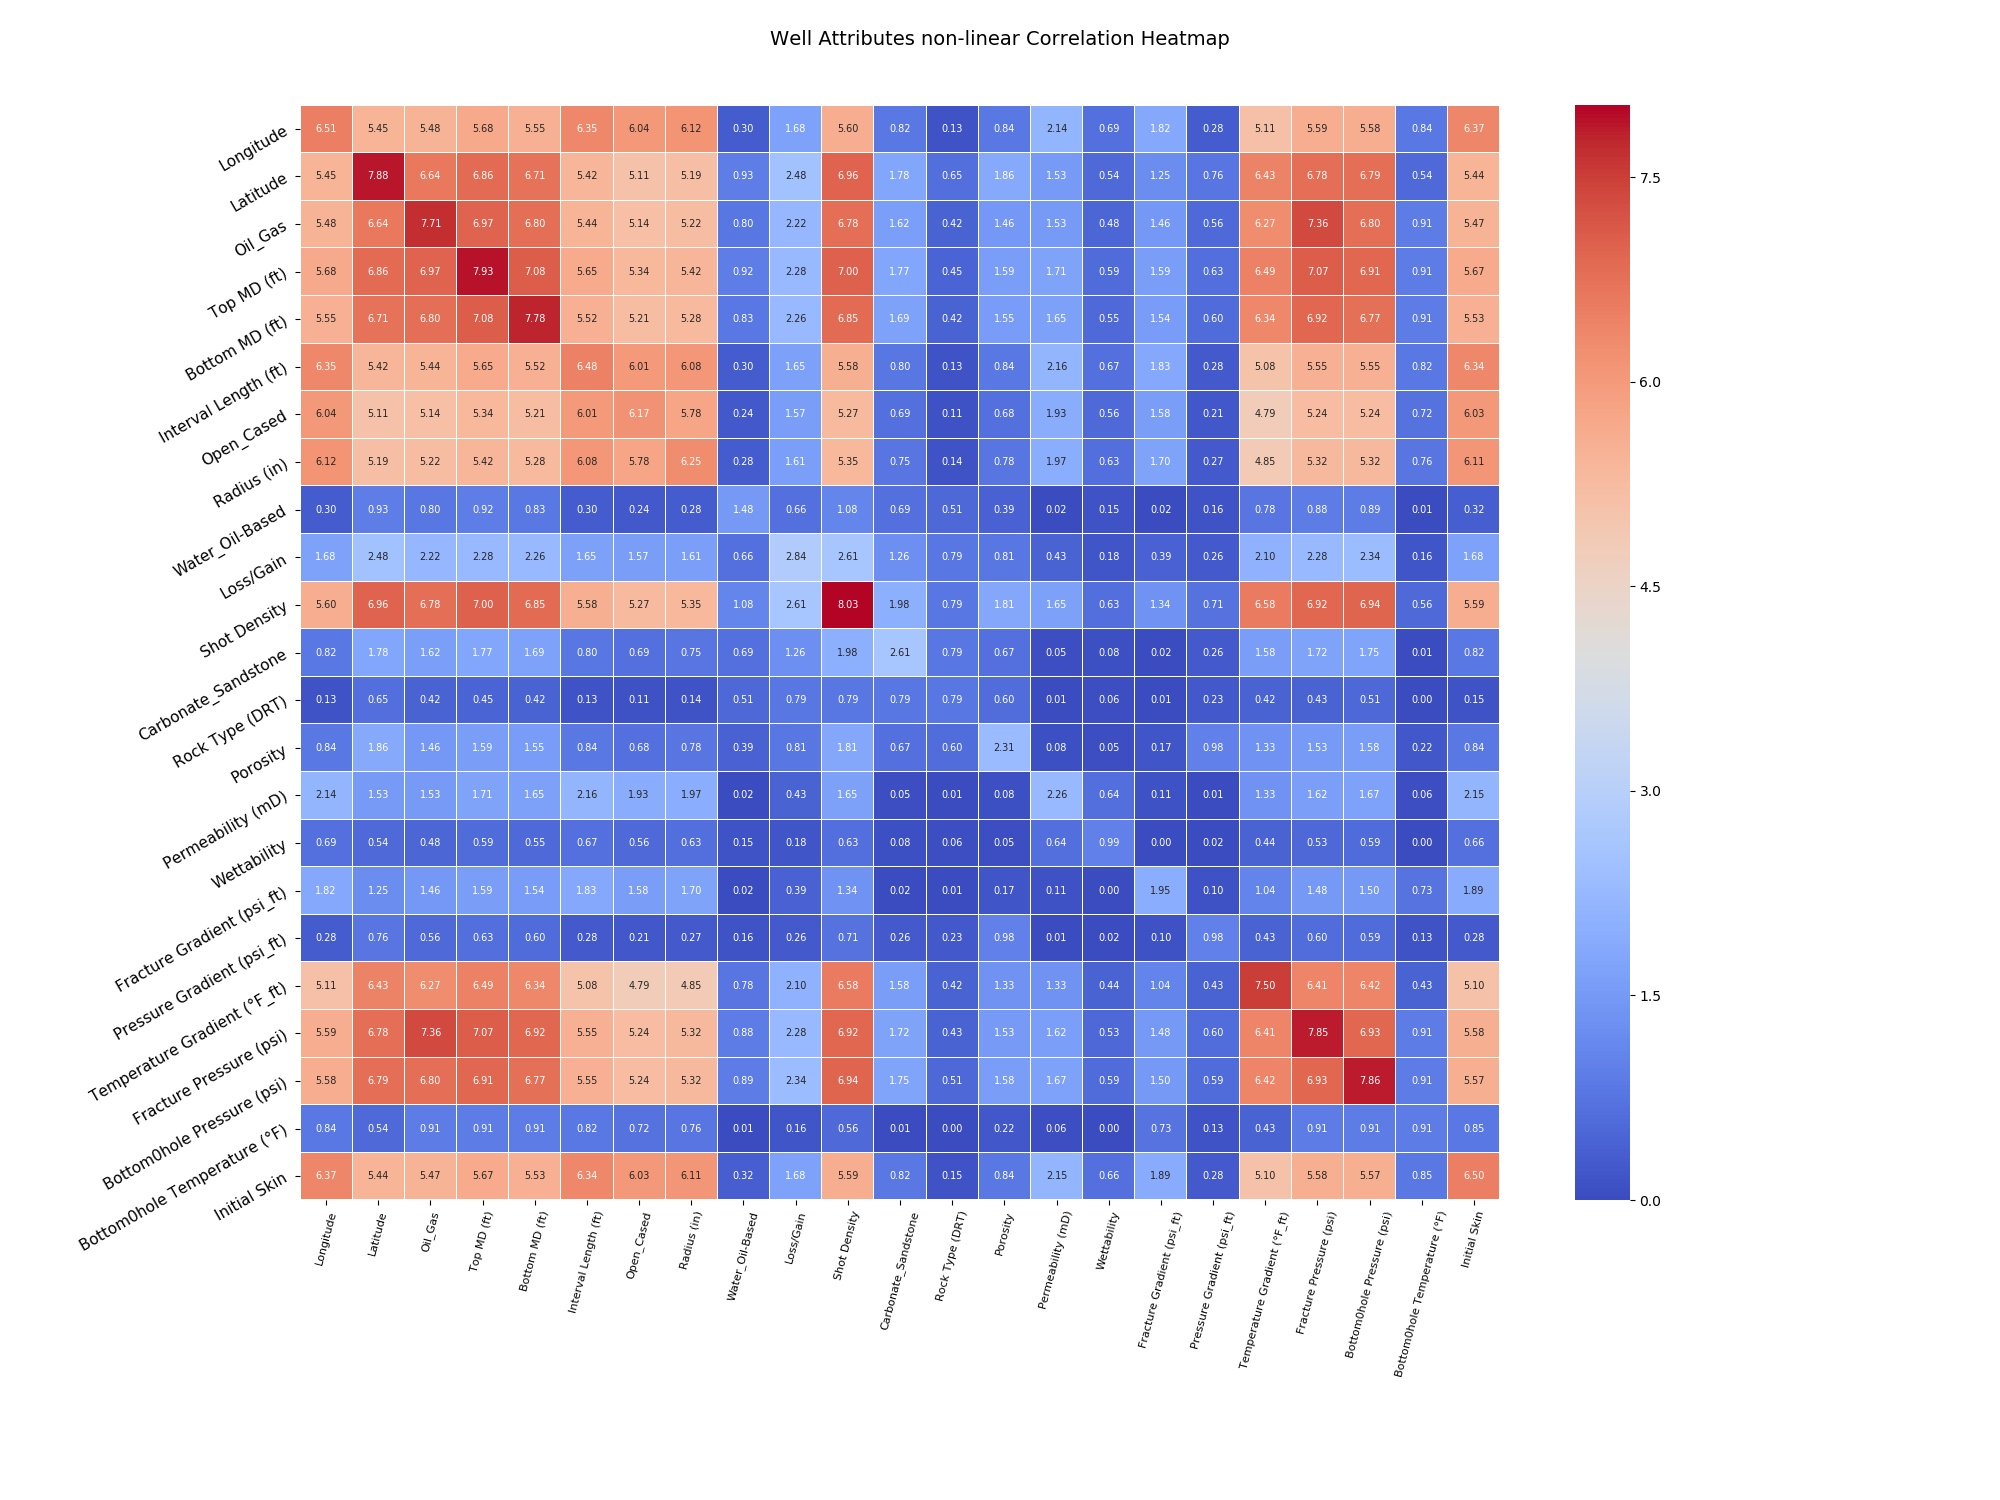
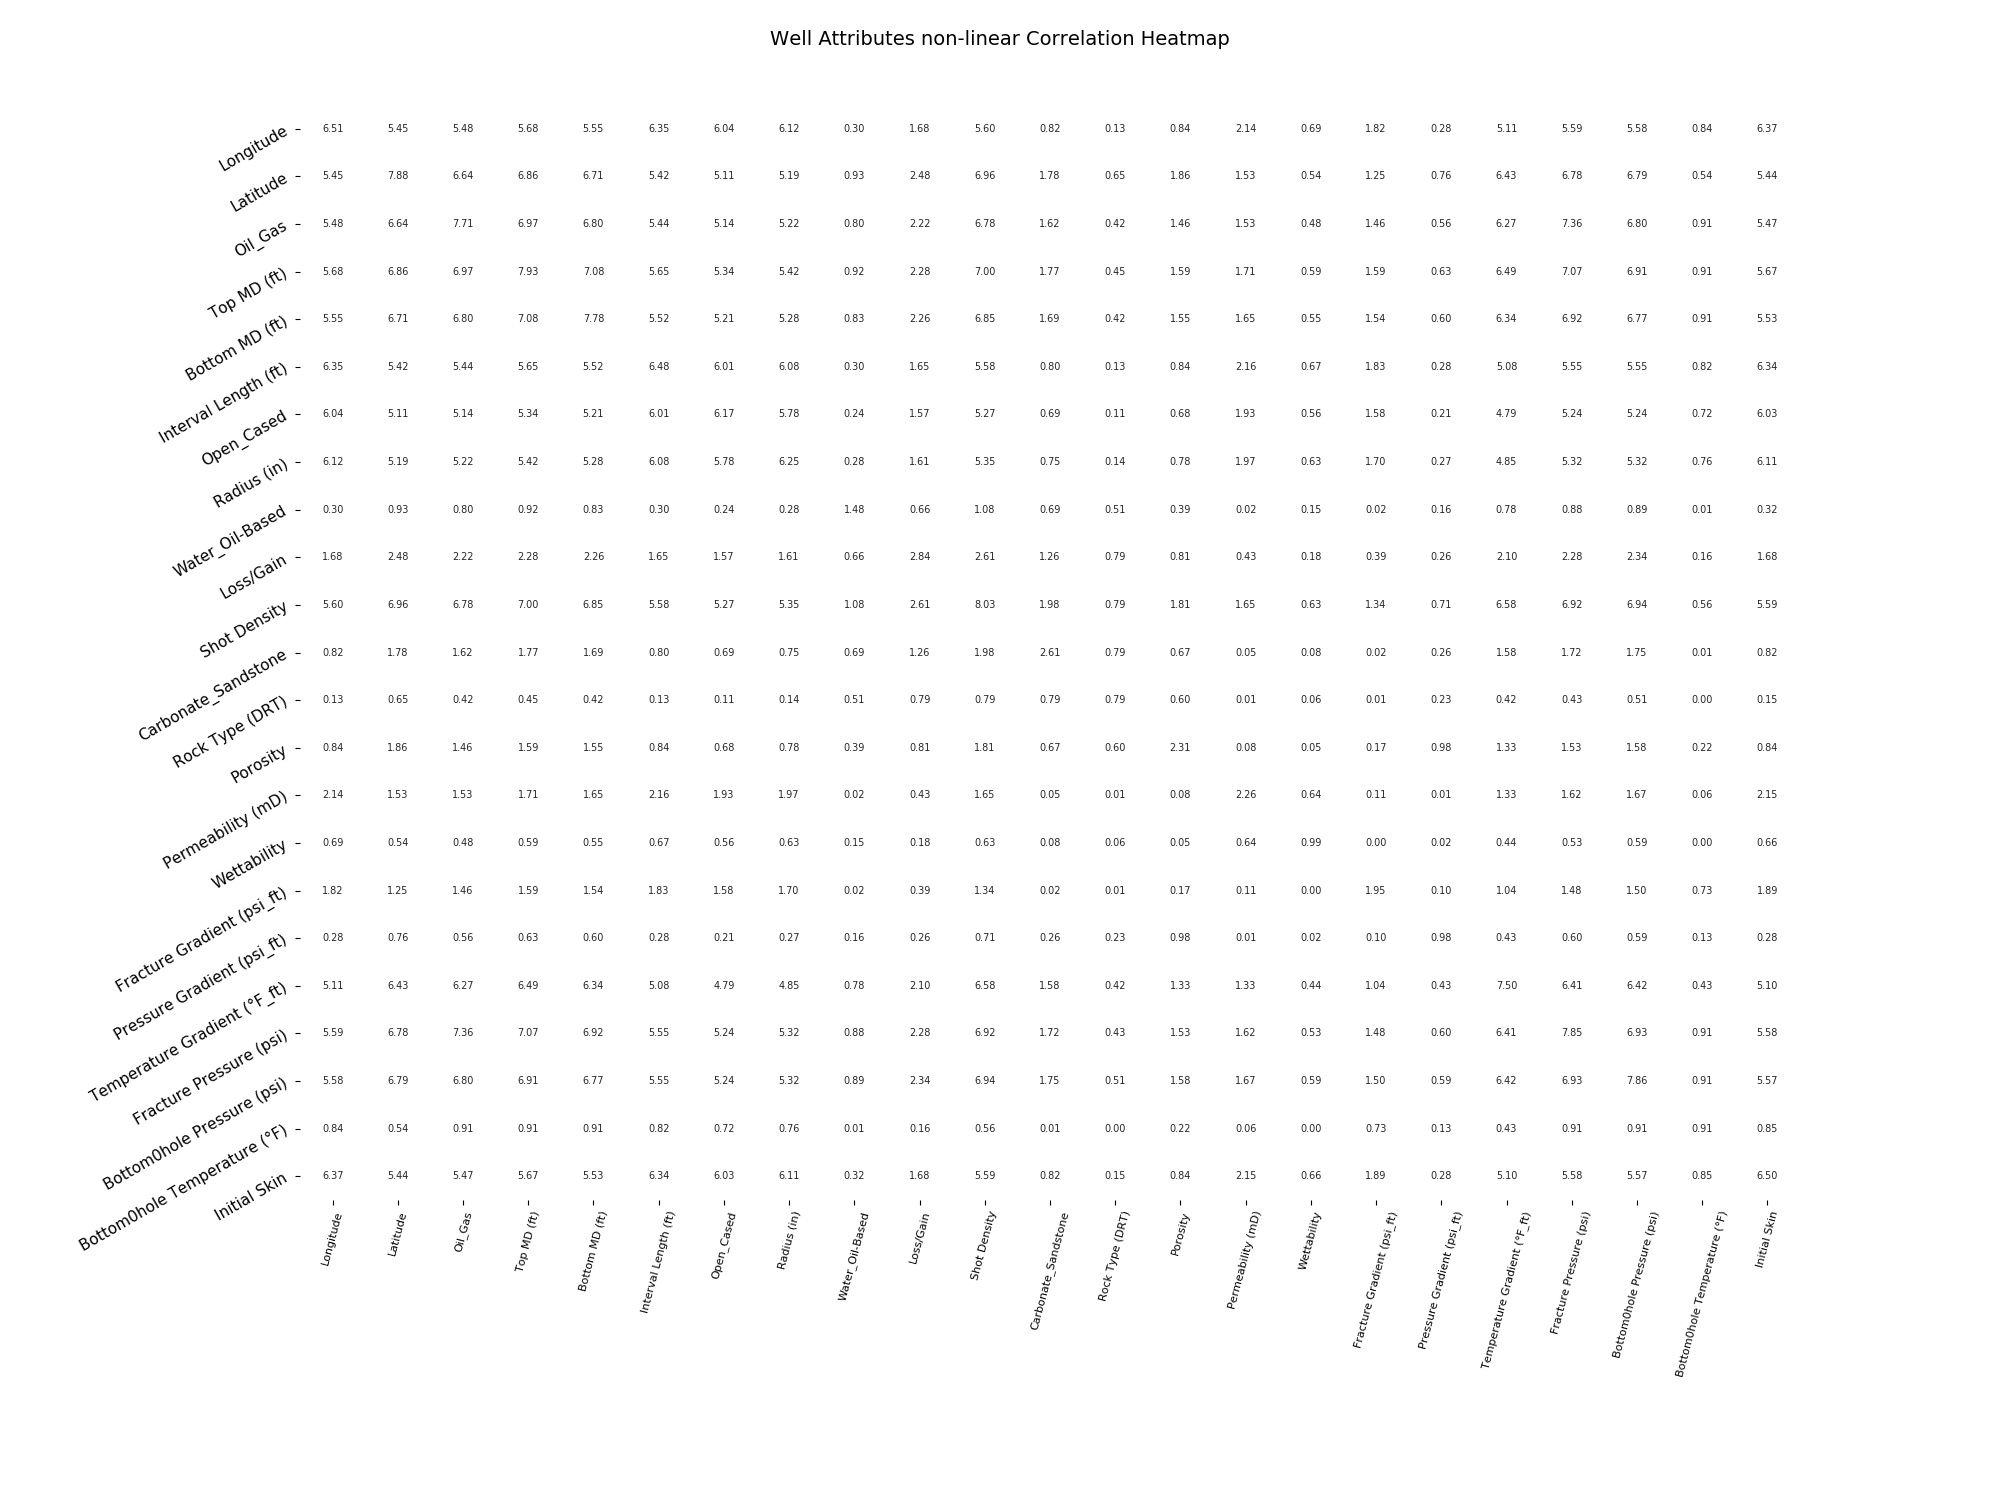
0

diff --git a/python/mutually information.py b/python/mutually information.py
@@ -1,9 +1,18 @@
+from matplotlib.colors import ListedColormap
 import numpy as np
 import pandas as pd
 import matplotlib.pyplot as plt
 import seaborn as sns
 import os
 
+
+def normalizeValues(df):
+    from sklearn import preprocessing
+    min_max_scaler = preprocessing.MinMaxScaler()
+    x_scaled = min_max_scaler.fit_transform(df)
+    return x_scaled
+
+   
 def calc_MI(X,Y,bins):
    c_XY = np.histogram2d(X,Y,bins)[0]
    c_X = np.histogram(X,bins)[0]
@@ -42,18 +51,35 @@ def main():
             "Correlation" : round(mutual_matrix[i, j],2)
                     }, ignore_index = True)
    corr_df.to_excel("second_dataset_non_linear_correlation_ranking.xlsx")
+
+
+   normalizedMutualMatrix = np.zeros([df.shape[1],df.shape[1]])
+   for i in range(mutual_matrix.shape[0]):
+      normalizedMutualMatrix[i] = [i[0] for i in normalizeValues(mutual_matrix[i].reshape(-1, 1))]
+
    pl, ax = plt.subplots(figsize=(20, 15))
-   hm = sns.heatmap(mutual_matrix, annot=True, ax=ax, cmap="coolwarm",fmt='.2f',
-                     linewidths=.05, annot_kws={"size": 7})
+   hm = sns.heatmap(mutual_matrix, annot=True, ax=ax, cmap=ListedColormap(['white']),fmt='.2f',
+                     linewidths=.05, annot_kws={"size": 7}, cbar = False)
    hm.set_xticklabels(df.columns, rotation = 75, fontsize = 8)
    hm.set_yticklabels(df.columns, rotation = 30, fontsize =11)
    pl.subplots_adjust(top=0.93, left=0.15, bottom = 0.2)
    t= pl.suptitle('Well Attributes non-linear Correlation Heatmap', fontsize=14)
    pl.savefig('non_linear_Correlation_Plot.jpg')
-#  plt.show()
+   plt.show()
 
 if __name__ == '__main__':
     main()
+
+
+
+
+
+
+
+
+
+
+
          
 #############################################################
 ##   min_max_scaler = preprocessing.MinMaxScaler()
